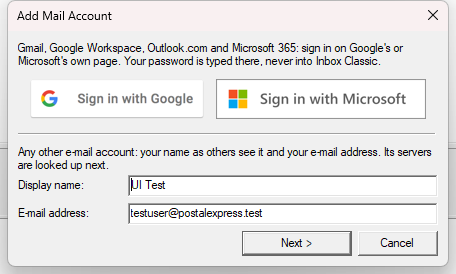
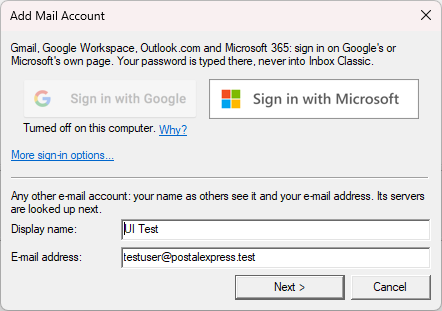
feat: a shorter landing page with only what matters to someone choosing a mail program
Free and open source and Windows 10 and 11 up front; six features that set it apart instead of nine;
the screenshot tour down to setting up and writing; a few honest answers (Gmail included) in place of
the safety checklist; the signed-installer, admin-rights and hashes notes left out. The hero shows
an HTML message with its pictures blocked; the account page as v0.2.0 has it; window shots without
the desktop at their edges.

Changed region(s): [[0.0, 0.0, 1.0, 1.0], [0.0588, 0.292, 0.4412, 0.438]]

diff --git a/index.html b/index.html
@@ -3,14 +3,14 @@
     <head>
         <meta charset="utf-8" />
         <meta name="viewport" content="width=device-width, initial-scale=1" />
-        <title>Inbox Classic: the familiar mail client, rebuilt for today</title>
+        <title>Inbox Classic: the classic three-pane mail client for Windows</title>
         <meta
             name="description"
-            content="Inbox Classic is a Windows mail client with the classic three-pane layout you already know: folders, message list and reading pane. IMAP and SMTP, HTML mail made safe, drafts, an outbox, and nothing that phones home."
+            content="A free, open source mail client for Windows 10 and 11 with the classic three-pane layout: folders, message list and reading pane. Works with Outlook.com, Microsoft 365, Gmail and any IMAP account. No ads, no tracking."
         />
         <meta property="og:title" content="Inbox Classic" />
         <meta property="og:description" content="The familiar three-pane mail client, rebuilt for today's Windows and today's mail." />
-        <meta property="og:image" content="https://inboxclassic.com/img/main-1-inbox.png" />
+        <meta property="og:image" content="https://inboxclassic.com/img/read-1-html.png" />
         <meta property="og:url" content="https://inboxclassic.com/" />
         <link
             rel="icon"
@@ -301,6 +301,25 @@
                     padding: 52px 0;
                 }
             }
+            .faq {
+                display: grid;
+                grid-template-columns: 1fr 1fr;
+                gap: 28px 44px;
+            }
+            .faq h3 {
+                margin: 0 0 6px;
+                font-size: 18px;
+            }
+            .faq p {
+                margin: 0;
+                color: var(--muted);
+                font-size: 15.5px;
+            }
+            @media (max-width: 860px) {
+                .faq {
+                    grid-template-columns: 1fr;
+                }
+            }
         </style>
     </head>
     <body>
@@ -316,8 +335,7 @@
                     </a>
                     <div class="links">
                         <a href="#features">Features</a>
-                        <a href="#tour">Tour</a>
-                        <a href="#safety">Safety</a>
+                        <a href="#faq">Questions</a>
                         <a href="https://github.com/postalsys/inbox-classic">GitHub</a>
                     </div>
                 </nav>
@@ -325,8 +343,8 @@
                     <div>
                         <h1>The mail client you remember, rebuilt for today</h1>
                         <p class="lead">
-                            Folders on the left, messages on top, the reading pane below. Inbox Classic brings back the calm three-pane layout for Windows 11,
-                            with modern IMAP, safe HTML mail and nothing in the way.
+                            Folders on the left, messages on top, the reading pane below. A fast, simple mail program for Windows with the layout you already
+                            know, and none of the clutter.
                         </p>
                         <a class="download" href="https://github.com/postalsys/inbox-classic/releases/latest/download/InboxClassic-Setup.exe"
                             ><svg viewBox="0 0 24 24" aria-hidden="true">
@@ -340,14 +358,14 @@
                                 /></svg
                             >Download for Windows</a
                         >
-                        <span class="note">For Windows 11 &middot; signed installer &middot; no admin rights needed</span>
+                        <span class="note">Free and open source &middot; Windows 10 and 11</span>
                     </div>
                     <img
                         class="shot"
-                        src="img/main-1-inbox.png"
-                        width="1100"
-                        height="760"
-                        alt="The Inbox Classic main window: the folder tree, the message list and the reading pane"
+                        src="img/read-1-html.png"
+                        width="1086"
+                        height="753"
+                        alt="The Inbox Classic main window: the folder tree, the message list and an HTML newsletter in the reading pane, its pictures from the internet blocked"
                     />
                 </div>
             </div>
@@ -356,62 +374,32 @@
         <main>
             <section id="features">
                 <div class="wrap">
-                    <h2>Everything a mail program should do, and nothing else</h2>
-                    <p class="intro">
-                        No feeds, no assistants, no ads. A fast, small program that reads and writes your mail, with the shortcuts and the layout you already
-                        know.
-                    </p>
+                    <h2>Just your mail</h2>
+                    <p class="intro">No feeds, no assistants, no ads, no account with us. A small program that reads and writes your mail, and does it well.</p>
                     <div class="grid">
                         <div class="card">
-                            <h3>Any IMAP account</h3>
-                            <p>
-                                Gmail, Outlook.com and Microsoft 365 add with one click on Sign in with Google or Microsoft, so your password never touches the
-                                app. For any other address the servers are found for you.
-                            </p>
+                            <h3>Works with your account</h3>
+                            <p>Outlook.com, Microsoft 365, Gmail and any other IMAP mailbox. Type your address and the server settings are found for you.</p>
+                        </div>
+                        <div class="card">
+                            <h3>All accounts in one place</h3>
+                            <p>Every account in one folder tree, and one click to check them all. Pick which address a message goes from as you write it.</p>
                         </div>
                         <div class="card">
                             <h3>Reads offline</h3>
-                            <p>A copy of your mail stays on your computer, so what was downloaded opens instantly, even without a connection.</p>
+                            <p>Your mail is kept on your computer too, so it opens instantly, with or without a connection.</p>
+                        </div>
+                        <div class="card">
+                            <h3>No trackers</h3>
+                            <p>Pictures that tell senders you opened their mail stay blocked until you ask for them. Scripts in messages never run.</p>
                         </div>
                         <div class="card">
                             <h3>Replies without clutter</h3>
-                            <p>Quoted history and forwarded mail fold away behind a small button, when you read and when you reply.</p>
+                            <p>Long quoted histories fold away, so you see what the sender actually wrote, and your reply starts on top.</p>
                         </div>
                         <div class="card">
-                            <h3>A real editor</h3>
-                            <p>
-                                Bold, lists, colors, links and pictures when you want them. A message without formatting goes as plain text; replies follow the
-                                original.
-                            </p>
-                        </div>
-                        <div class="card">
-                            <h3>Drafts and an Outbox</h3>
-                            <p>
-                                Save a message to finish later. Send sends at once; if the server can't be reached, the message waits in the Outbox and goes by
-                                itself.
-                            </p>
-                        </div>
-                        <div class="card">
-                            <h3>Find, folders, print</h3>
-                            <p>
-                                Search as you type, move and flag mail, manage folders, see a message's headers, print with a full preview, save or import .eml
-                                files.
-                            </p>
-                        </div>
-                        <div class="card">
-                            <h3>The look you remember</h3>
-                            <p>
-                                The folder bar, the envelopes, the paper clip and the yellow bar over blocked pictures, with crisp Fluent icons for today's
-                                screens.
-                            </p>
-                        </div>
-                        <div class="card">
-                            <h3>Several accounts</h3>
-                            <p>Every account in one tree. From shows who a message goes from and switches it; Send/Recv checks one account or all.</p>
-                        </div>
-                        <div class="card">
-                            <h3>Small and quiet</h3>
-                            <p>One program for Windows 11, installed per user without admin rights, with nothing running in the background.</p>
+                            <h3>Nothing phones home</h3>
+                            <p>No analytics and no sign-up. Inbox Classic talks to your mail servers and nobody else.</p>
                         </div>
                     </div>
                 </div>
@@ -423,112 +411,76 @@
                         <img
                             class="shot"
                             src="img/account-1-form.png"
-                            width="456"
-                            height="274"
-                            alt="Add Mail Account with the Sign in with Google and Sign in with Microsoft buttons"
+                            width="442"
+                            height="311"
+                            alt="Add Mail Account: Sign in with Microsoft, more sign-in options, or a name and address"
                             loading="lazy"
                         />
                         <div>
-                            <h3>Add your account in one click</h3>
+                            <h3>Set up in a minute</h3>
                             <p>
-                                Sign in with Google or Microsoft on their own page, and the account is there, named and set up. Any other account needs only
-                                your name and address; the servers are looked up for you.
+                                Outlook.com and Microsoft 365 sign in on Microsoft's own page, so your password never touches the app. For any other address,
+                                type your name and address; the servers are looked up for you.
                             </p>
                         </div>
                     </div>
                     <div class="pair">
                         <div>
-                            <h3>Read in peace</h3>
+                            <h3>Write the way you always have</h3>
                             <p>
-                                HTML mail keeps its layout but loses its scripts and trackers. Pictures from the internet stay blocked until you ask for them.
+                                Formatting when you want it, plain text when you don't. Drag files in to attach them. If you are offline, the message waits in
+                                the Outbox and goes by itself.
                             </p>
-                            <p>Long reply chains fold away, so you see what the sender actually wrote.</p>
                         </div>
-                        <img
-                            class="shot"
-                            src="img/read-6-folded.png"
-                            width="1100"
-                            height="760"
-                            alt="A reply with the earlier messages folded behind a button"
-                            loading="lazy"
-                        />
-                    </div>
-                    <div class="pair flip">
                         <img
                             class="shot"
                             src="img/write-5-new.png"
-                            width="760"
-                            height="620"
+                            width="746"
+                            height="400"
                             alt="The compose window with From, To, Subject, attachments and the format bar"
-                            loading="lazy"
-                        />
-                        <div>
-                            <h3>Write the way you always have</h3>
-                            <p>From shows which account sends the message, and lets you pick another. Attach files with the button or by dragging them in.</p>
-                            <p>Ctrl+Enter sends, Ctrl+S saves the draft.</p>
-                        </div>
-                    </div>
-                    <div class="pair">
-                        <div>
-                            <h3>Answer with the original folded</h3>
-                            <p>
-                                Your reply starts at the top. The original message waits behind the three dots and is sent along, unless you open it and trim
-                                it.
-                            </p>
-                        </div>
-                        <img
-                            class="shot"
-                            src="img/write-3-reply.png"
-                            width="760"
-                            height="620"
-                            alt="A reply with the original folded behind three dots"
                             loading="lazy"
                         />
                     </div>
                 </div>
             </section>
 
-            <section id="safety">
+            <section id="faq">
                 <div class="wrap">
-                    <h2>Safe by design</h2>
-                    <p class="intro">
-                        Email is the most common way into a computer. Inbox Classic is built so a hostile message has as little to work with as possible.
-                    </p>
-                    <ul class="checks">
-                        <li>
-                            <b>Parsed in a memory-safe core</b
-                            ><span>Everything a server or sender writes is read by a Rust core; the Windows interface only shows what it has checked.</span>
-                        </li>
-                        <li>
-                            <b>No scripts in your mail</b
-                            ><span>Messages are sanitized and shown with scripts, forms, frames and remote requests turned off.</span>
-                        </li>
-                        <li>
-                            <b>Encryption is not optional</b
-                            ><span
-                                >Servers are only picked with TLS, certificates are checked against Windows, and there is no "accept any certificate"
-                                switch.</span
-                            >
-                        </li>
-                        <li><b>Passwords in Windows</b><span>Passwords and sign-in tokens are kept in the Windows Credential Manager, not in a file.</span></li>
-                        <li>
-                            <b>Lookups nobody can tamper with</b
-                            ><span>Server settings are found over DNS-over-HTTPS, so nobody on your network can hand out other servers.</span>
-                        </li>
-                        <li>
-                            <b>Nothing phones home</b><span>No analytics, no accounts with us. Inbox Classic talks to your mail servers and nobody else.</span>
-                        </li>
-                    </ul>
+                    <h2>Questions</h2>
+                    <div class="faq">
+                        <div>
+                            <h3>Is it really free?</h3>
+                            <p>
+                                Yes. Inbox Classic is open source under the MIT license, made by Postal Systems, the makers of Nodemailer and EmailEngine. The
+                                <a href="https://github.com/postalsys/inbox-classic">source is on GitHub</a>.
+                            </p>
+                        </div>
+                        <div>
+                            <h3>Does it work with Gmail?</h3>
+                            <p>
+                                Yes, with a Google app password, or by signing in through a Google app of your own. One-click Sign in with Google comes once
+                                Google has finished reviewing Inbox Classic.
+                            </p>
+                        </div>
+                        <div>
+                            <h3>Where is my mail kept?</h3>
+                            <p>
+                                On your mail server, as always, with a copy on your computer for reading offline. Passwords are kept in Windows' own Credential
+                                Manager.
+                            </p>
+                        </div>
+                        <div>
+                            <h3>Can I bring old messages along?</h3>
+                            <p>Messages saved as .eml files can be imported into any folder, and any message can be saved as one.</p>
+                        </div>
+                    </div>
                 </div>
             </section>
 
             <section class="alt cta">
                 <div class="wrap">
-                    <h2>Get Inbox Classic</h2>
-                    <p>
-                        Made by Postal Systems, the makers of Nodemailer and EmailEngine. The installer is signed, installs for you alone without admin rights,
-                        and updates in place when you run a newer one.
-                    </p>
+                    <h2>Try Inbox Classic</h2>
+                    <p>Free, no sign-up, and your mail stays where it is.</p>
                     <a class="download" href="https://github.com/postalsys/inbox-classic/releases/latest/download/InboxClassic-Setup.exe"
                         ><svg viewBox="0 0 24 24" aria-hidden="true">
                             <path
@@ -541,10 +493,7 @@
                             /></svg
                         >Download for Windows</a
                     >
-                    <span class="note"
-                        >Every <a href="https://github.com/postalsys/inbox-classic/releases">release</a> lists its changes and a GPG-signed hashes.txt to check
-                        the download against.</span
-                    >
+                    <span class="note">Windows 10 and 11 &middot; <a href="https://github.com/postalsys/inbox-classic/releases">What's new</a></span>
                 </div>
             </section>
         </main>
@@ -552,7 +501,7 @@
         <footer>
             <div class="wrap">
                 <span>&copy; 2026 Postal Systems O&Uuml;</span>
-                <span>Toolbar icons: <a href="https://github.com/microsoft/fluentui-system-icons">Fluent UI System Icons</a> (MIT)</span>
+                <span><a href="https://github.com/postalsys/inbox-classic">GitHub</a></span>
             </div>
         </footer>
     </body>
